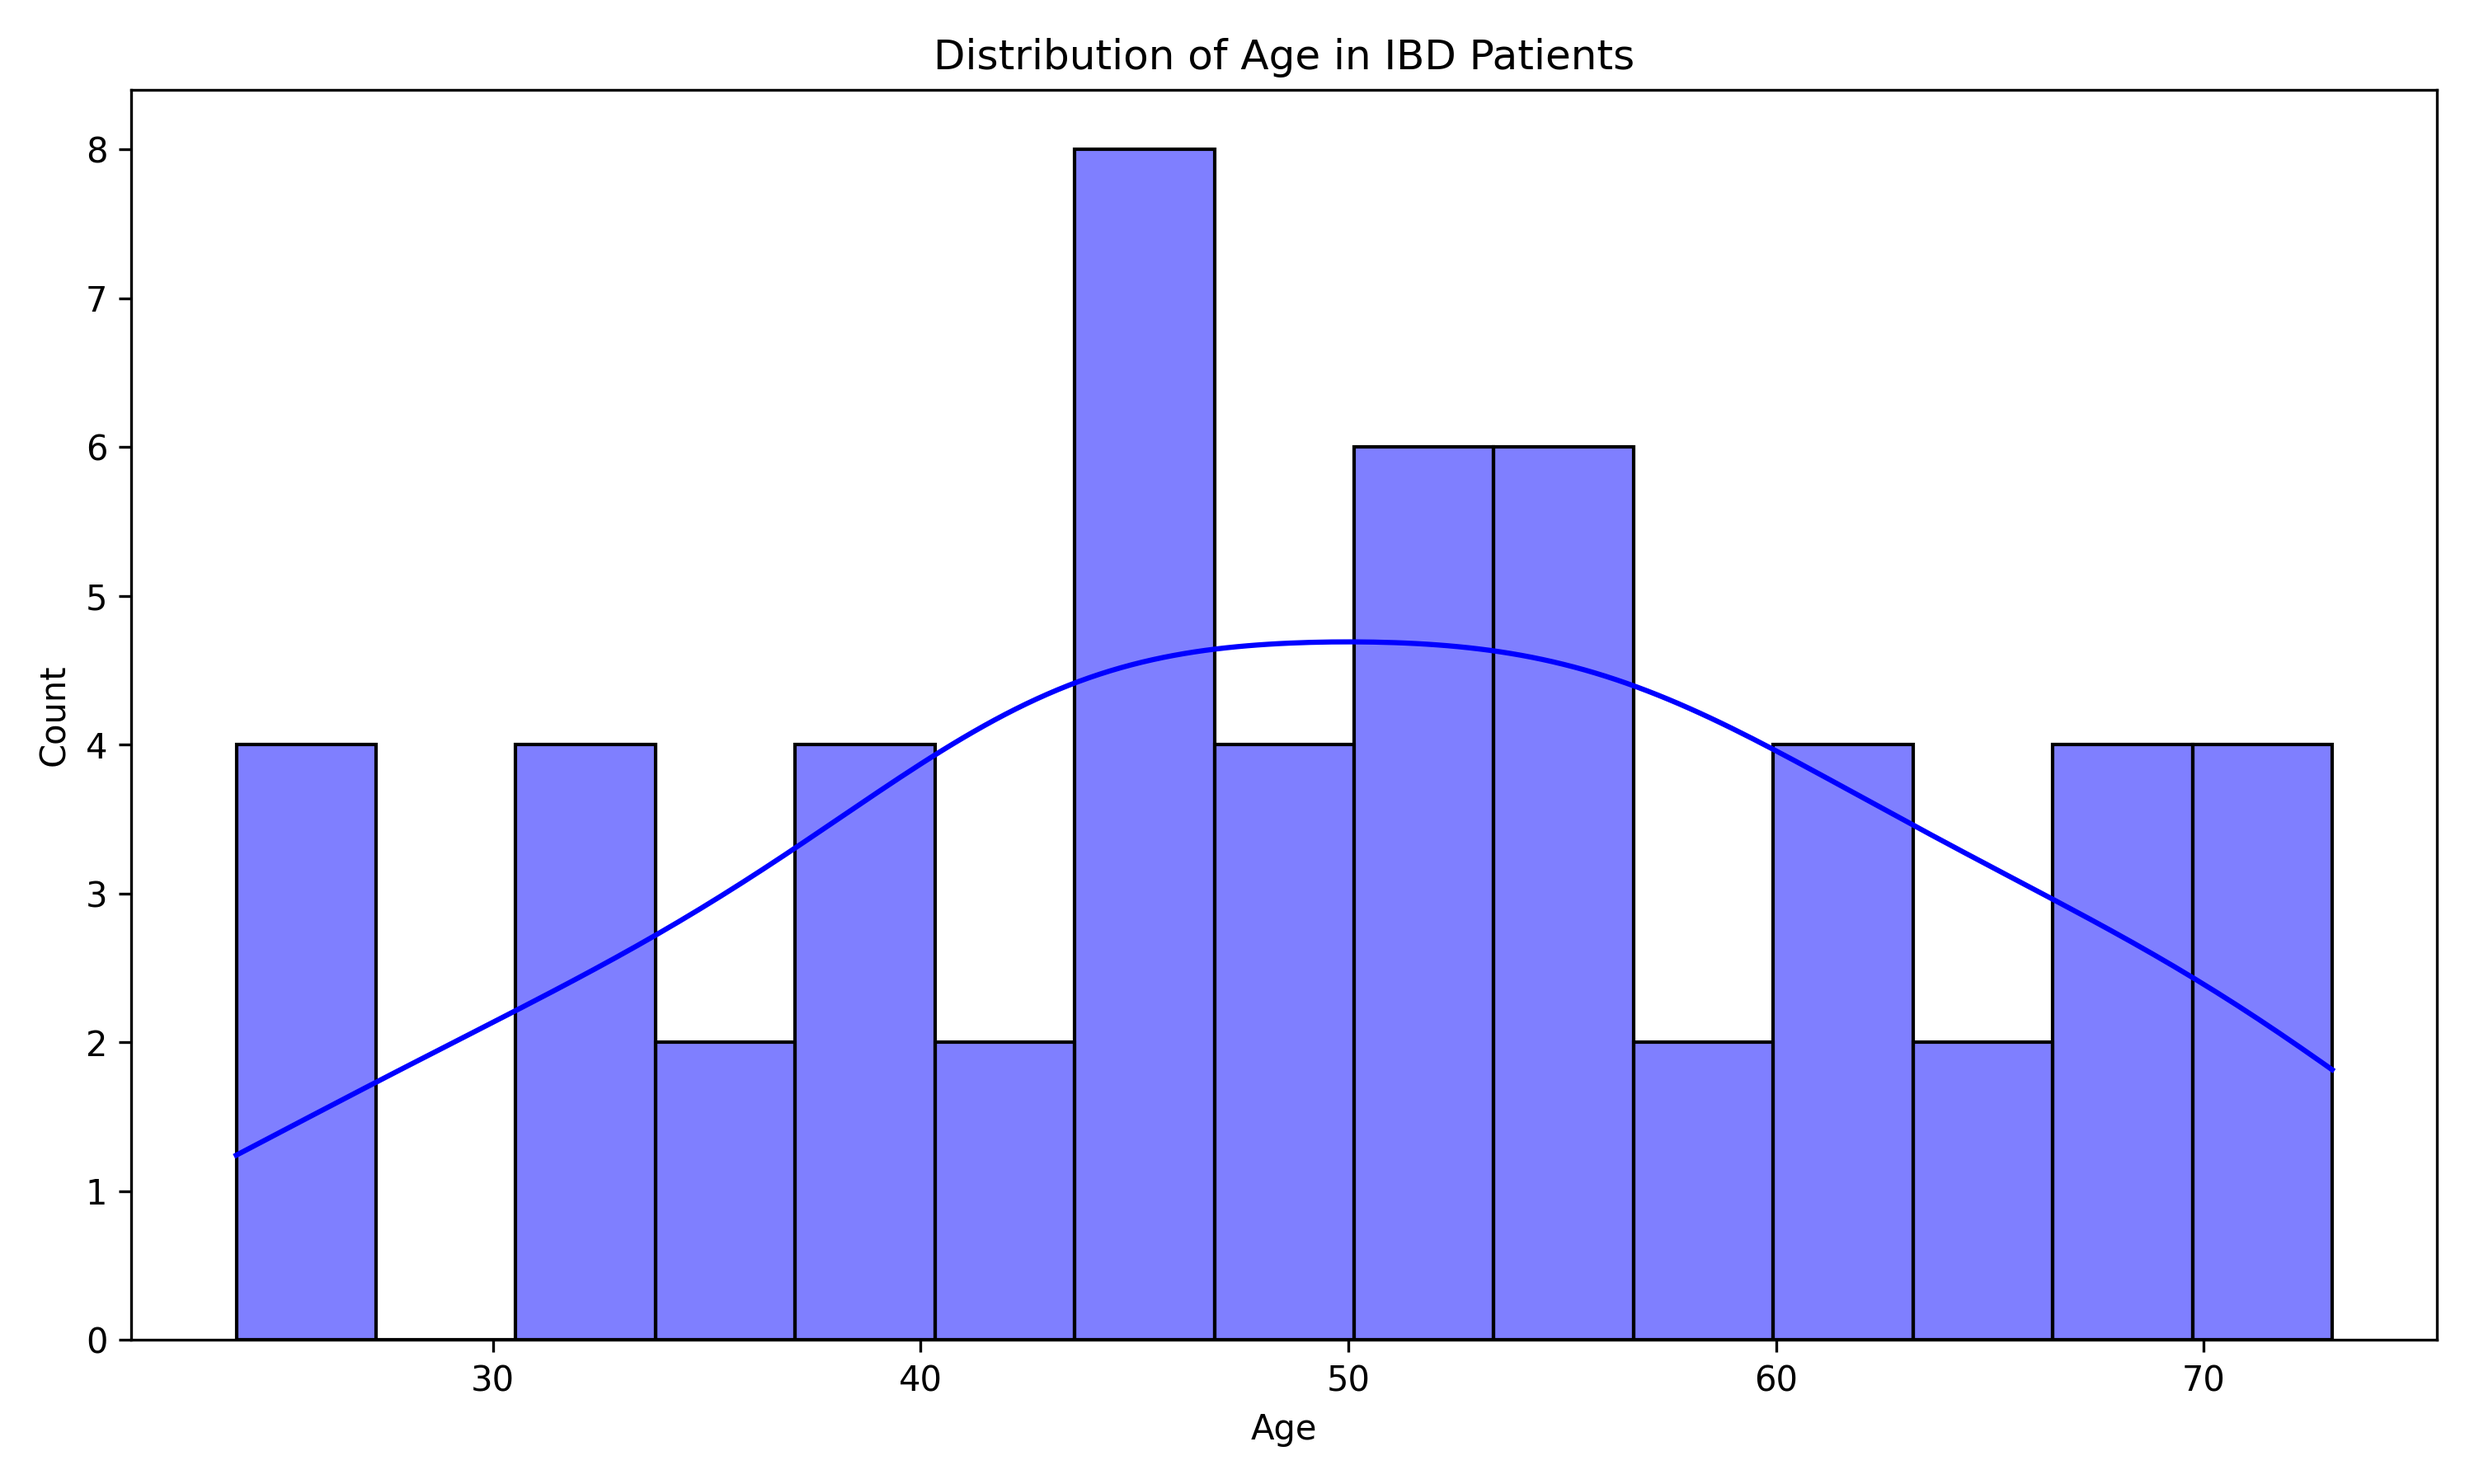
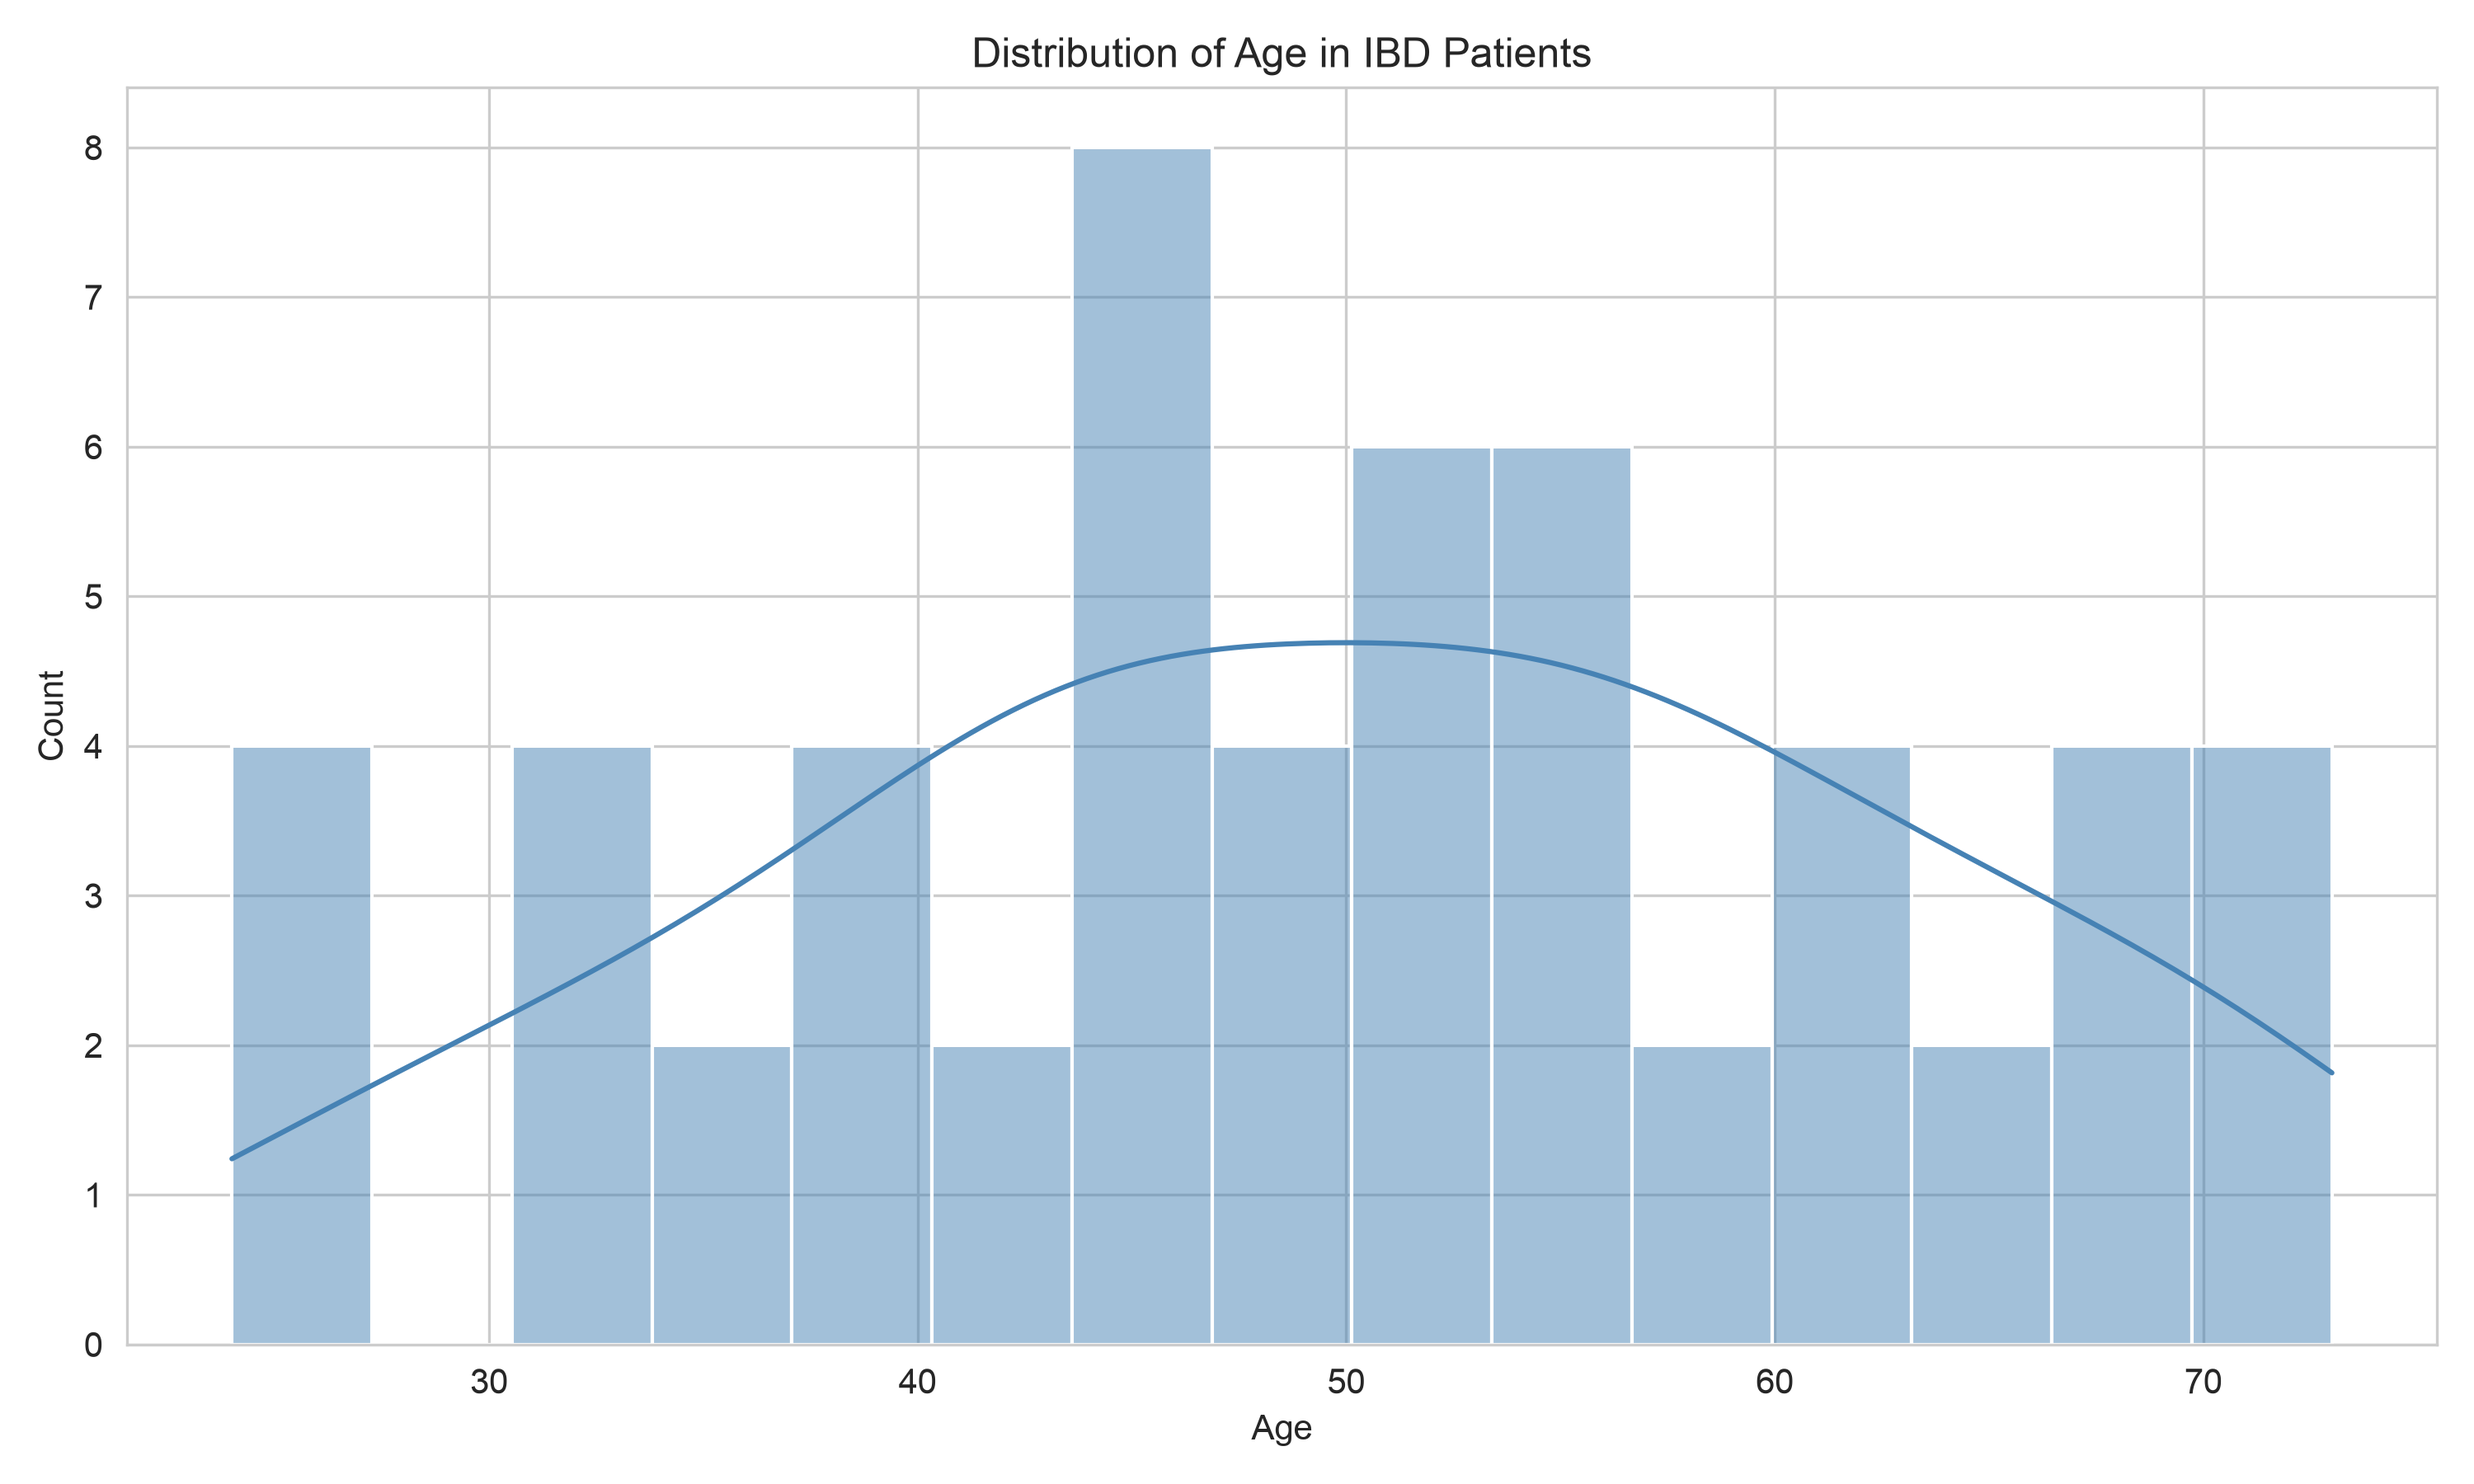
visualisations

diff --git a/visualisations.py b/visualisations.py
@@ -2,166 +2,244 @@
 IBD Psychosocial Analysis - Visualisations
 Author: Eleanor Bryan
 Date: 2026
-Purpose: Create visualisations for IBD dataset
+Purpose: Create visualisations for the cleaned IBD dataset
+
+HOW TO USE:
+1. Make sure analysis.py has been run at least once
+   (so general_info_clean.csv exists).
+2. Open this file in IDLE.
+3. Press F5 to run it.
+4. Check the folder for the new *.png charts.
 """
 
-# Import libraries
+# ============================
+# IMPORTS
+# ============================
 import pandas as pd
 import numpy as np
 import matplotlib.pyplot as plt
 import seaborn as sns
 
-# ----------------------------
-# 1. LOAD DATA
-# ----------------------------
+sns.set_style("whitegrid")
+plt.rcParams['figure.dpi'] = 100
 
-# Load each CSV file
+
+# ============================
+# STEP 1: LOAD CLEANED DATA
+# ============================
+print("=== LOADING CLEANED DATA ===")
+
 general_info = pd.read_csv('general_info_clean.csv')
-assessment = pd.read_csv('assessment_clean.csv')
+assessment   = pd.read_csv('assessment_clean.csv')
 
-print("=== DATA LOADED SUCCESSFULLY ===")
 print(f"General Info: {general_info.shape}")
-print(f"Assessment: {assessment.shape}")
+print(f"Assessment:   {assessment.shape}")
 
-# ----------------------------
-# 2. DEMOGRAPHICS
-# ----------------------------
+
+# ============================
+# STEP 2: DEMOGRAPHICS
+# ============================
+print("\n=== DEMOGRAPHICS ===")
 
 # Age distribution
 plt.figure(figsize=(10, 6))
-sns.histplot(general_info['Age'].dropna(), bins=15, kde=True, color='blue')
+sns.histplot(general_info['Age'].dropna(), bins=15, kde=True, color='steelblue')
 plt.title('Distribution of Age in IBD Patients')
 plt.xlabel('Age')
 plt.ylabel('Count')
 plt.tight_layout()
 plt.savefig('age_distribution.png', dpi=300)
-plt.show()
+plt.close()
+print("Saved: age_distribution.png")
 
 # Disease type distribution
-disease_counts = general_info['Disease'].value_counts()
 plt.figure(figsize=(8, 6))
-sns.barplot(x=disease_counts.index, y=disease_counts.values, palette='Set2')
+sns.countplot(data=general_info, x='Disease', palette='Set2')
 plt.title('Distribution of IBD Disease Type')
 plt.xlabel('Disease Type')
 plt.ylabel('Number of Patients')
 plt.tight_layout()
 plt.savefig('disease_distribution.png', dpi=300)
-plt.show()
+plt.close()
+print("Saved: disease_distribution.png")
 
-# ----------------------------
-# 3. IBDQ (QUALITY OF LIFE)
-# ----------------------------
 
-# Select IBDQ columns
+# ============================
+# STEP 3: IBDQ BY DISEASE ACTIVITY
+# ============================
+print("\n=== IBDQ BY DISEASE ACTIVITY ===")
+
 ibdq_cols = [col for col in general_info.columns if 'IBDQ-' in col]
-print(f"\nIBDQ Columns found: {len(ibdq_cols)}")
-print(ibdq_cols)
+print(f"IBDQ Columns found: {len(ibdq_cols)}")
 
-# Create a box plot for IBDQ questions by disease activity
 if ibdq_cols:
-    # Get unique Clinical Activity values (excluding NaN)
-    activity_values = general_info['Clinical Activity '].dropna().unique()
-    print(f"Clinical Activity values: {activity_values}")
-    
     plt.figure(figsize=(14, 10))
-    # Plot first 6 IBDQ questions
     for i, col in enumerate(ibdq_cols[:6]):
         plt.subplot(2, 3, i+1)
-        # Use Clinical Activity Code for more consistent grouping
-        sns.boxplot(x='Clinical Activity Code', y=col, data=general_info)
-        plt.title(f'{col[:30]}...')
+        sns.boxplot(x='Clinical_Activity_Code', y=col, data=general_info)
+        plt.title(f'{col[:35]}...', fontsize=9)
         plt.xticks(rotation=45, fontsize=8)
     plt.tight_layout()
     plt.savefig('ibdq_by_activity.png', dpi=300)
-    plt.show()
+    plt.close()
+    print("Saved: ibdq_by_activity.png")
 
-# ----------------------------
-# 4. HADS (ANXIETY & DEPRESSION)
-# ----------------------------
 
-# Select HADS columns
-hads_a_cols = [col for col in general_info.columns if col.startswith('HADS-A')]
-hads_d_cols = [col for col in general_info.columns if col.startswith('HADS-D')]
+# ============================
+# STEP 4: HADS (ANXIETY & DEPRESSION)
+# ============================
+print("\n=== HADS ===")
 
-print(f"HADS-A Columns: {len(hads_a_cols)}")
-print(f"HADS-D Columns: {len(hads_d_cols)}")
+# ---- 4a. Individual HADS-A responses ----
+hads_a_cols = [col for col in general_info.columns
+               if col.startswith('HADS-A') and not col.endswith('_score')]
 
-# Plot HADS-A (Anxiety) responses
 if hads_a_cols:
     plt.figure(figsize=(16, 8))
     for i, col in enumerate(hads_a_cols[:4]):
         plt.subplot(1, 4, i+1)
-        # Count the responses
-        response_counts = general_info[col].value_counts().head(8)
-        sns.barplot(x=response_counts.index, y=response_counts.values)
-        plt.title(f'{col[:25]}')
+        counts = general_info[col].value_counts().head(8)
+        sns.barplot(x=counts.index, y=counts.values)
+        plt.title(col[:25], fontsize=9)
         plt.xticks(rotation=45, fontsize=8)
         plt.xlabel('')
     plt.tight_layout()
-    plt.savefig('hads_anxiety.png', dpi=300)
-    plt.show()
+    plt.savefig('hads_anxiety_items.png', dpi=300)
+    plt.close()
+    print("Saved: hads_anxiety_items.png")
 
-# Plot HADS-D (Depression) responses
+# ---- 4b. Individual HADS-D responses ----
+hads_d_cols = [col for col in general_info.columns
+               if col.startswith('HADS-D') and not col.endswith('_score')]
+
 if hads_d_cols:
     plt.figure(figsize=(16, 8))
     for i, col in enumerate(hads_d_cols[:4]):
         plt.subplot(1, 4, i+1)
-        response_counts = general_info[col].value_counts().head(8)
-        sns.barplot(x=response_counts.index, y=response_counts.values)
-        plt.title(f'{col[:25]}')
+        counts = general_info[col].value_counts().head(8)
+        sns.barplot(x=counts.index, y=counts.values)
+        plt.title(col[:25], fontsize=9)
         plt.xticks(rotation=45, fontsize=8)
         plt.xlabel('')
     plt.tight_layout()
-    plt.savefig('hads_depression.png', dpi=300)
-    plt.show()
+    plt.savefig('hads_depression_items.png', dpi=300)
+    plt.close()
+    print("Saved: hads_depression_items.png")
 
-# ----------------------------
-# 5. PSS (PERCEIVED STRESS)
-# ----------------------------
+# ---- 4c. HADS totals (anxiety + depression) ----
+fig, axes = plt.subplots(1, 2, figsize=(12, 5))
 
-# Select PSS columns
-pss_cols = [col for col in general_info.columns if col.startswith('PSS-')]
-print(f"PSS Columns: {len(pss_cols)}")
+sns.histplot(general_info['HADS_Anxiety_Total'].dropna(),
+             bins=10, kde=True, color='coral', ax=axes[0])
+axes[0].set_title('HADS Anxiety Total')
+axes[0].set_xlabel('Score (0-21)')
+
+sns.histplot(general_info['HADS_Depression_Total'].dropna(),
+             bins=10, kde=True, color='mediumpurple', ax=axes[1])
+axes[1].set_title('HADS Depression Total')
+axes[1].set_xlabel('Score (0-21)')
+
+plt.tight_layout()
+plt.savefig('hads_totals.png', dpi=300)
+plt.close()
+print("Saved: hads_totals.png")
+
+
+# ============================
+# STEP 5: PSS (PERCEIVED STRESS)
+# ============================
+print("\n=== PSS ===")
+
+# ---- 5a. First 8 individual PSS items ----
+pss_cols = [col for col in general_info.columns
+            if col.startswith('PSS-') and not col.endswith('_score')]
 
 if pss_cols:
     plt.figure(figsize=(16, 12))
     for i, col in enumerate(pss_cols[:8]):
         plt.subplot(2, 4, i+1)
-        response_counts = general_info[col].value_counts().head(8)
-        sns.barplot(x=response_counts.index, y=response_counts.values)
-        plt.title(f'{col[:25]}')
+        counts = general_info[col].value_counts().head(8)
+        sns.barplot(x=counts.index, y=counts.values)
+        plt.title(col[:25], fontsize=9)
         plt.xticks(rotation=45, fontsize=8)
         plt.xlabel('')
     plt.tight_layout()
     plt.savefig('pss_distribution.png', dpi=300)
-    plt.show()
+    plt.close()
+    print("Saved: pss_distribution.png")
 
-# ----------------------------
-# 6. APGAR (FAMILY SUPPORT)
-# ----------------------------
+# ---- 5b. PSS total ----
+plt.figure(figsize=(8, 5))
+sns.histplot(general_info['PSS_Total'].dropna(),
+             bins=10, kde=True, color='seagreen')
+plt.title('Perceived Stress (PSS Total)')
+plt.xlabel('PSS Score (0-56)')
+plt.tight_layout()
+plt.savefig('pss_total.png', dpi=300)
+plt.close()
+print("Saved: pss_total.png")
 
-# Select APGAR columns
-apgar_cols = [col for col in general_info.columns if col.startswith('APGAR-')]
-print(f"APGAR Columns: {len(apgar_cols)}")
+
+# ============================
+# STEP 6: APGAR (FAMILY SUPPORT)
+# ============================
+print("\n=== APGAR ===")
+
+apgar_cols = [col for col in general_info.columns
+              if col.startswith('APGAR-') and not col.endswith('_score')]
 
 if apgar_cols:
     plt.figure(figsize=(16, 10))
     for i, col in enumerate(apgar_cols):
         plt.subplot(2, 3, i+1)
-        response_counts = general_info[col].value_counts().head(8)
-        sns.barplot(x=response_counts.index, y=response_counts.values)
-        plt.title(f'{col[:25]}')
+        counts = general_info[col].value_counts().head(8)
+        sns.barplot(x=counts.index, y=counts.values)
+        plt.title(col[:25], fontsize=9)
         plt.xticks(rotation=45, fontsize=8)
         plt.xlabel('')
     plt.tight_layout()
     plt.savefig('apgar_distribution.png', dpi=300)
-    plt.show()
+    plt.close()
+    print("Saved: apgar_distribution.png")
 
-# ----------------------------
-# 7. LONGITUDINAL CHANGES (OVER TIME)
-# ----------------------------
+# APGAR total
+plt.figure(figsize=(8, 5))
+sns.histplot(general_info['APGAR_Total'].dropna(),
+             bins=10, kde=True, color='goldenrod')
+plt.title('Family Support (APGAR Total)')
+plt.xlabel('APGAR Score (0-10)')
+plt.tight_layout()
+plt.savefig('apgar_total.png', dpi=300)
+plt.close()
+print("Saved: apgar_total.png")
 
-# Look at assessments over time
+
+# ============================
+# STEP 7: CORRELATION HEATMAP
+# ============================
+print("\n=== CORRELATION HEATMAP ===")
+
+corr = general_info[[
+    'HADS_Anxiety_Total',
+    'HADS_Depression_Total',
+    'PSS_Total',
+    'APGAR_Total'
+]].corr()
+
+plt.figure(figsize=(7, 5))
+sns.heatmap(corr, annot=True, cmap='coolwarm', vmin=-1, vmax=1, fmt='.2f')
+plt.title('Correlation Between Psychological Measures')
+plt.tight_layout()
+plt.savefig('correlation_heatmap.png', dpi=300)
+plt.close()
+print("Saved: correlation_heatmap.png")
+
+
+# ============================
+# STEP 8: LONGITUDINAL CHANGES
+# ============================
+print("\n=== LONGITUDINAL ASSESSMENTS ===")
+
 plt.figure(figsize=(10, 6))
 sns.countplot(data=assessment, x='Assessment', hue='Diseases')
 plt.title('Number of Patients Assessed Over Time by Disease Type')
@@ -170,16 +248,12 @@ plt.ylabel('Count')
 plt.legend(title='Disease Type')
 plt.tight_layout()
 plt.savefig('longitudinal_assessment.png', dpi=300)
-plt.show()
+plt.close()
+print("Saved: longitudinal_assessment.png")
 
-print("\n=== ANALYSIS COMPLETE ===")
-print("Visualisations saved as PNG files in your project folder.")
-print("Files created:")
-print("  - age_distribution.png")
-print("  - disease_distribution.png")
-print("  - ibdq_by_activity.png")
-print("  - hads_anxiety.png")
-print("  - hads_depression.png")
-print("  - pss_distribution.png")
-print("  - apgar_distribution.png")
-print("  - longitudinal_assessment.png")
+
+# ============================
+# STEP 9: DONE
+# ============================
+print("\n=== VISUALISATIONS COMPLETE ===")
+print("All PNG files saved in the project folder.")
